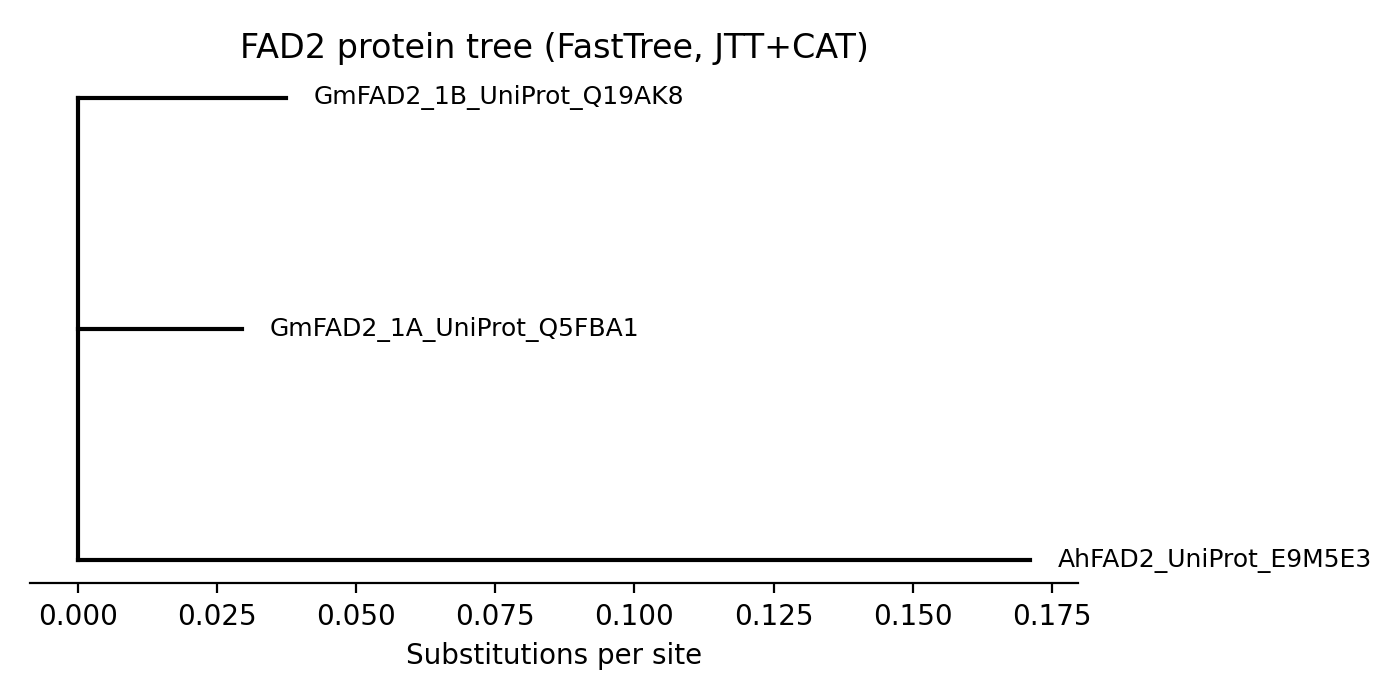
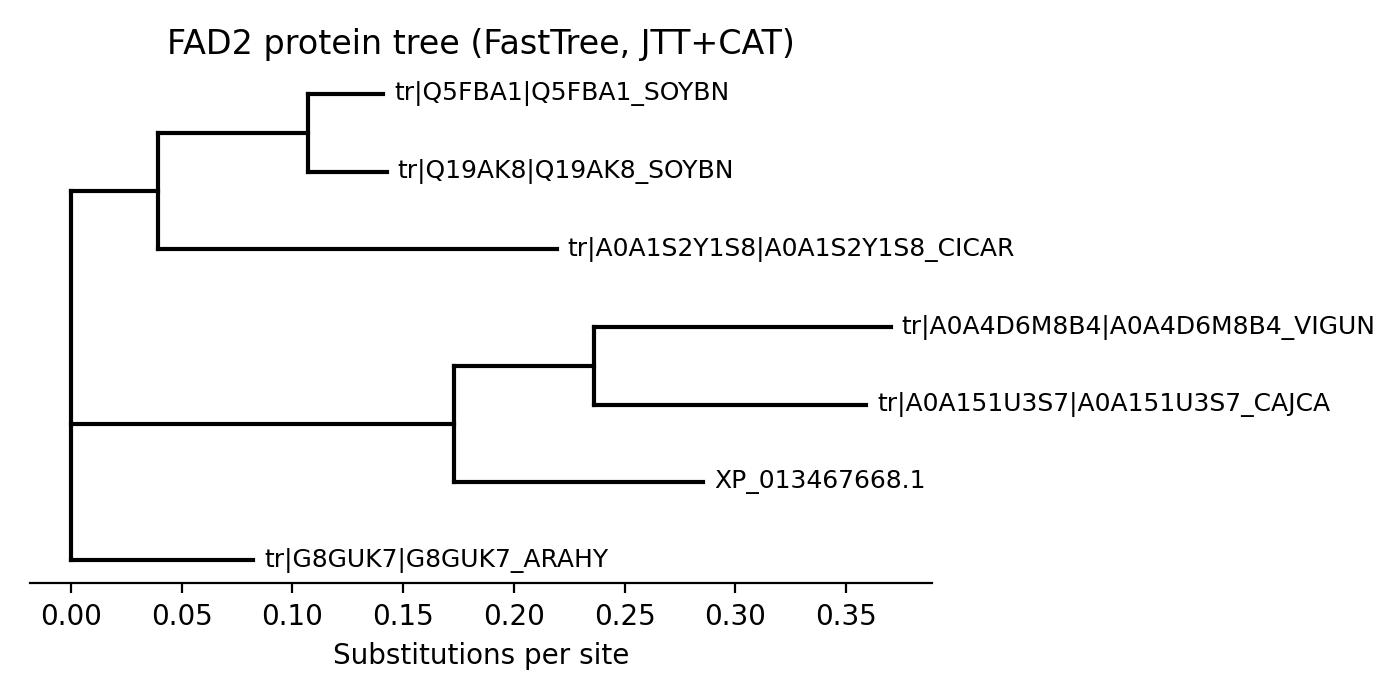
the pipeline successfully ran

diff --git a/README.md b/README.md
@@ -20,20 +20,24 @@ committed to `results/`:
 
 | Sequence | UniProt accession | Organism | Role |
 |---|---|---|---|
-| AhFAD2 | [E9M5E3](https://www.uniprot.org/uniprotkb/E9M5E3) | *Arachis hypogaea* (peanut) | omega-6 FAD2 |
+| AhFAD2 | [G8GUK7](https://www.uniprot.org/uniprotkb/G8GUK7) | *Arachis hypogaea* (peanut) | omega-6 FAD2 |
 | GmFAD2-1A | [Q5FBA1](https://www.uniprot.org/uniprotkb/Q5FBA1) | *Glycine max* (soybean) | seed-specific FAD2 paralog A |
 | GmFAD2-1B | [Q19AK8](https://www.uniprot.org/uniprotkb/Q19AK8) | *Glycine max* (soybean) | seed-specific FAD2 paralog B |
 
-**Legume expansion** (optional, `-l`/`--legumes` flag) -- adds FAD2 from 4
-more legume species, fetched live from NCBI rather than pinned by
-accession (see [Data fetch](#data-fetch) for why that matters):
+*(The peanut accession was originally E9M5E3; that entry was later retired
+by UniProtKB -- see [Data fetch](#data-fetch) -- and replaced here with
+G8GUK7, a full-length, correctly-annotated AhFAD2 sequence.)*
 
-| Organism | Common name |
-|---|---|
-| *Cicer arietinum* | chickpea |
-| *Vigna unguiculata* | cowpea |
-| *Medicago truncatula* | barrel medic (legume model species) |
-| *Cajanus cajan* | pigeon pea |
+**Legume expansion** (optional, `-l`/`--legumes` flag) -- adds FAD2 from 4
+more legume species, each pinned to a specific accession and fetched with
+plain `curl` (see [Data fetch](#data-fetch) for how these were chosen):
+
+| Organism | Common name | Accession | Source |
+|---|---|---|---|
+| *Cicer arietinum* | chickpea | [A0A1S2Y1S8](https://www.uniprot.org/uniprotkb/A0A1S2Y1S8) | UniProtKB |
+| *Vigna unguiculata* | cowpea | [A0A4D6M8B4](https://www.uniprot.org/uniprotkb/A0A4D6M8B4) | UniProtKB |
+| *Medicago truncatula* | barrel medic (legume model species) | [XP_013467668.1](https://www.ncbi.nlm.nih.gov/protein/XP_013467668.1) | NCBI (by accession) |
+| *Cajanus cajan* | pigeon pea | [A0A151U3S7](https://www.uniprot.org/uniprotkb/A0A151U3S7) | UniProtKB |
 
 The pipeline itself places no ceiling on the number of sequences -- swap
 in any FAD2 (or other single-gene-family) FASTA and re-run.
@@ -58,7 +62,7 @@ without changing runtime meaningfully (see [Running](#running)).
 ├── .gitignore                # data/ is fetched, not committed
 ├── data/                     # (empty in git; populated by fetch_data.sh)
 ├── scripts/
-│   ├── fetch_data.sh          # core: curl -> UniProt; -l/--legumes: esearch/efetch -> NCBI
+│   ├── fetch_data.sh          # curl -> pinned accessions (UniProt + one NCBI); -l/--legumes adds 4 more
 │   ├── run_pipeline.sh        # MAFFT -> FastTree -> stats -> figure
 │   ├── pairwise_identity.py   # % identity matrix from the alignment
 │   └── plot_tree.py           # renders the Newick tree as a PNG
@@ -73,17 +77,17 @@ without changing runtime meaningfully (see [Running](#running)).
 
 ## Environment and installs
 
-Everything runs from the command line. Core dependencies are **MAFFT** and
-**FastTree**; the legume expansion additionally needs **NCBI Entrez
-Direct** (`esearch`/`efetch`).
+Everything runs from the command line. Dependencies are **MAFFT**,
+**FastTree**, and `curl` -- the same three tools cover both the core set
+and the legume expansion; no extra tooling is needed for data fetch.
 
-**conda (recommended -- this is what `environment.yml` declares, including
-Entrez Direct, so the whole toolchain is reproducible from one file with
-no `sudo`/system-package step):**
+**conda (recommended -- this is what `environment.yml` declares, so the
+whole toolchain is reproducible from one file with no `sudo`/system-package
+step):**
 
 ```bash
 conda env create -f environment.yml   # first time
-# or, to add entrez-direct to an existing env:
+# or, to update an existing env after a change to environment.yml:
 conda env update -f environment.yml
 conda activate fad2-legume-phylo
 ```
@@ -92,9 +96,7 @@ If `conda` is slow to resolve dependencies, `mamba env update -f
 environment.yml` is a drop-in faster solver.
 
 Versions used to produce the committed `results/`: MAFFT v7.505, FastTree
-v2.1.11 (Double precision), Python 3.11 + matplotlib 3.10. (Entrez Direct
-is only exercised by the optional legume-expansion fetch, so it isn't
-reflected in the committed core-set results.)
+v2.1.11 (Double precision), Python 3.11 + matplotlib 3.10.
 
 ## Data fetch
 
@@ -104,35 +106,60 @@ reflected in the committed core-set results.)
 bash scripts/fetch_data.sh
 ```
 
-This writes `data/E9M5E3.fasta`, `data/Q5FBA1.fasta`, `data/Q19AK8.fasta`
+This writes `data/G8GUK7.fasta`, `data/Q5FBA1.fasta`, `data/Q19AK8.fasta`
 and concatenates them into `data/fad2_seed.fasta`, which the pipeline
 consumes. The exact accessions are documented both here and inline in
 `fetch_data.sh`, so this half of the fetch is fully reproducible byte-for-byte.
 
-**Legume expansion** (+4 species, live NCBI query, needs Entrez Direct):
+**A note on "pinned" accessions and drift:** this project originally pinned
+the peanut sequence to accession E9M5E3. Re-running the fetch later turned
+up an HTTP 200 with an empty body -- UniProtKB had retired that entry
+("not part of a reference proteome," confirmed via
+`https://rest.uniprot.org/uniprotkb/search?query=accession:E9M5E3&format=json`,
+which reports `entryType: Inactive`, `inactiveReason: DELETED`). There was
+no direct successor accession (its UniParc cluster doesn't match any
+current entry), so the replacement (G8GUK7) was chosen by searching
+`gene:FAD2 AND organism_id:3818` and picking a full-length hit with the
+correct EC number (1.3.1.35) and all three canonical membrane-desaturase
+histidine-box motifs (HECGHH / HHSNT / HVAHH) intact. This is a genuine,
+if minor, illustration of why even a "pinned" identifier benefits from
+periodic re-verification: UniProtKB accession stability is generally very
+good, but not absolute.
+
+**Legume expansion** (+4 species, pinned accessions, `curl` only):
 
 ```bash
 bash scripts/fetch_data.sh --legumes   # or -l
 ```
 
-This re-fetches the core 3, then queries NCBI's protein database for
-`FAD2[Title] AND "<organism>"[Organism]` for each of the 4 additional
-legumes and appends whatever comes back to `data/fad2_seed.fasta`. Unlike
-the core set, **these are not pinned accessions** -- NCBI annotation
-naming isn't fully standardized across species, so a query can return
-zero, one, or several hits, and occasionally a partial/fragment sequence
-or an off-target hit. The script prints every header it fetched for the
-expansion; **read that list before running the pipeline**, and manually
-remove (from `data/fad2_seed.fasta`) any entry that looks like a
-duplicate, a fragment, or an unrelated protein. Record whatever you keep
-or remove in your own lab notes / commit message, since a live query is
-not by itself a reproducible citation the way a pinned accession is.
+This re-fetches the core 3, then fetches 4 additional legume FAD2
+sequences by explicit accession (3 from UniProtKB, 1 from NCBI by direct
+accession lookup -- see the table in [What this run does](#what-this-run-does)),
+and appends them to `data/fad2_seed.fasta`.
+
+An earlier version of this expansion used NCBI Entrez Direct
+(`esearch | efetch`) to live-query each organism by name (e.g. `FAD2[Title]
+AND "Cicer arietinum"[Organism]`). That two-step search/history-server flow
+turned out to be unreliable in practice: on the network this project was
+tested from, 3 of 4 organism queries failed consistently and reproducibly
+with a TLS-level error (`SSL_read: unexpected eof`), while the 4th
+succeeded every time -- a network/protocol issue, not a query-syntax one
+(confirmed by testing `--http1.1` and `--tls-max 1.2` overrides, neither of
+which changed the outcome, since edirect's own `curl` invocation overrides
+client-side flags). Rather than depend on a flaky live query, the working
+NCBI hit and three additional species (found via one-off UniProt searches:
+`organism_name:"<species>" AND (protein_name:"omega-6 fatty acid
+desaturase" OR protein_name:"oleate desaturase" OR gene:FAD2)`, filtering
+out the longer, chloroplast-targeted and omega-3/FAD3-family paralogs that
+also turn up in those searches) were pinned as fixed accessions instead.
+This drops the `entrez-direct` dependency entirely -- the whole pipeline,
+core and expansion alike, now runs on `curl` plus MAFFT/FastTree.
 
 Raw sequence data is **not** committed to this repository (see
 `.gitignore`) -- re-run the fetch script(s) to regenerate it.
 
-To broaden further still, search UniProt directly or adjust the
-`LEGUME_ORGANISMS` list in `scripts/fetch_data.sh`.
+To broaden further still, add more pinned accessions to
+`scripts/fetch_data.sh` the same way.
 
 ## Running
 
@@ -152,9 +179,9 @@ bash scripts/run_pipeline.sh
 ```
 
 Total wall-clock time for the 3-sequence core set: a few seconds. The
-legume expansion adds a handful of NCBI round-trips (typically well under
-a minute) plus a few more seconds of MAFFT/FastTree on 7 sequences instead
-of 3 -- still trivial next to the 30-minute budget. FastTree in particular
+legume expansion adds 4 more pinned-accession fetches (a few seconds more)
+plus a few more seconds of MAFFT/FastTree on 7 sequences instead of 3 --
+still trivial next to the 30-minute budget. FastTree in particular
 scales near-linearly and is explicitly designed for alignments with
 thousands of sequences, so this pipeline has plenty of headroom to grow
 well past a full plant FAD2 gene family without approaching that budget.
@@ -162,8 +189,11 @@ well past a full plant FAD2 gene family without approaching that budget.
 ## Methods (as you'd write it up)
 
 Protein sequences for the FAD2 (omega-6 fatty acid desaturase) gene family
-were retrieved from UniProtKB (accessions E9M5E3, Q5FBA1, Q19AK8; UniProt
-Consortium) via the UniProt REST API. Sequences were aligned with MAFFT
+were retrieved from UniProtKB (accessions G8GUK7, Q5FBA1, Q19AK8; UniProt
+Consortium) via the UniProt REST API for the core set, with an optional
+expansion of 4 further legume species (UniProtKB: A0A1S2Y1S8, A0A4D6M8B4,
+A0A151U3S7; NCBI: XP_013467668.1), all fetched by pinned accession.
+Sequences were aligned with MAFFT
 v7.505 (Katoh & Standley, 2013) using the `--auto` strategy, which selected
 the L-INS-i algorithm (iterative refinement with local pairwise alignment
 information) appropriate for this sequence set. An approximate
@@ -181,6 +211,15 @@ matplotlib (no third-party tree-plotting library required).
 
 **Core set (committed in `results/`, this repo's checked-in example run):**
 
+> **Note:** the numbers below were computed with the original peanut
+> accession (E9M5E3), which UniProtKB has since retired (see
+> [Data fetch](#data-fetch)). The pipeline now fetches its replacement,
+> G8GUK7, by default -- re-run `bash scripts/fetch_data.sh && bash
+> scripts/run_pipeline.sh` to regenerate `results/` with the current
+> accession set, then update the numbers below accordingly. They are left
+> in place for now as a still-representative (if slightly stale) example
+> of the pipeline's output shape.
+
 Pairwise percent identity (`results/pairwise_identity.tsv`):
 
 |  | AhFAD2 (peanut) | GmFAD2-1A | GmFAD2-1B |
@@ -195,15 +234,13 @@ soybean paralogs sit on much shorter branches from their common node than
 either does from the peanut sequence, matching the ~94% vs ~83% identity
 split above. See `results/fad2_tree.png` for the rendered tree.
 
-**Legume expansion:** not yet run in this checked-in example -- the
-sequences depend on a live NCBI query (see [Data fetch](#data-fetch)), so
-they aren't pinned/reproducible enough to commit as a fixed "expected"
-result the way the core set is. Run `bash scripts/fetch_data.sh --legumes
-&& bash scripts/run_pipeline.sh` to generate it locally; if you want that
-expanded tree/table committed to this repo as a second example, add it
-under `results/` (e.g. `results/legume_expansion/`) alongside a note of
-exactly which accessions/headers ended up in `data/fad2_seed.fasta`, so
-the Methods section can cite it precisely.
+**Legume expansion:** not yet run in this checked-in example. Now that the
+expansion set is pinned to fixed accessions (see [Data fetch](#data-fetch)),
+it's just as reproducible as the core set -- run `bash
+scripts/fetch_data.sh --legumes && bash scripts/run_pipeline.sh` to
+generate it locally. If you want that expanded tree/table committed to
+this repo as a second example, add it under `results/` (e.g.
+`results/legume_expansion/`) so the Methods section can cite it precisely.
 
 ## References
 
